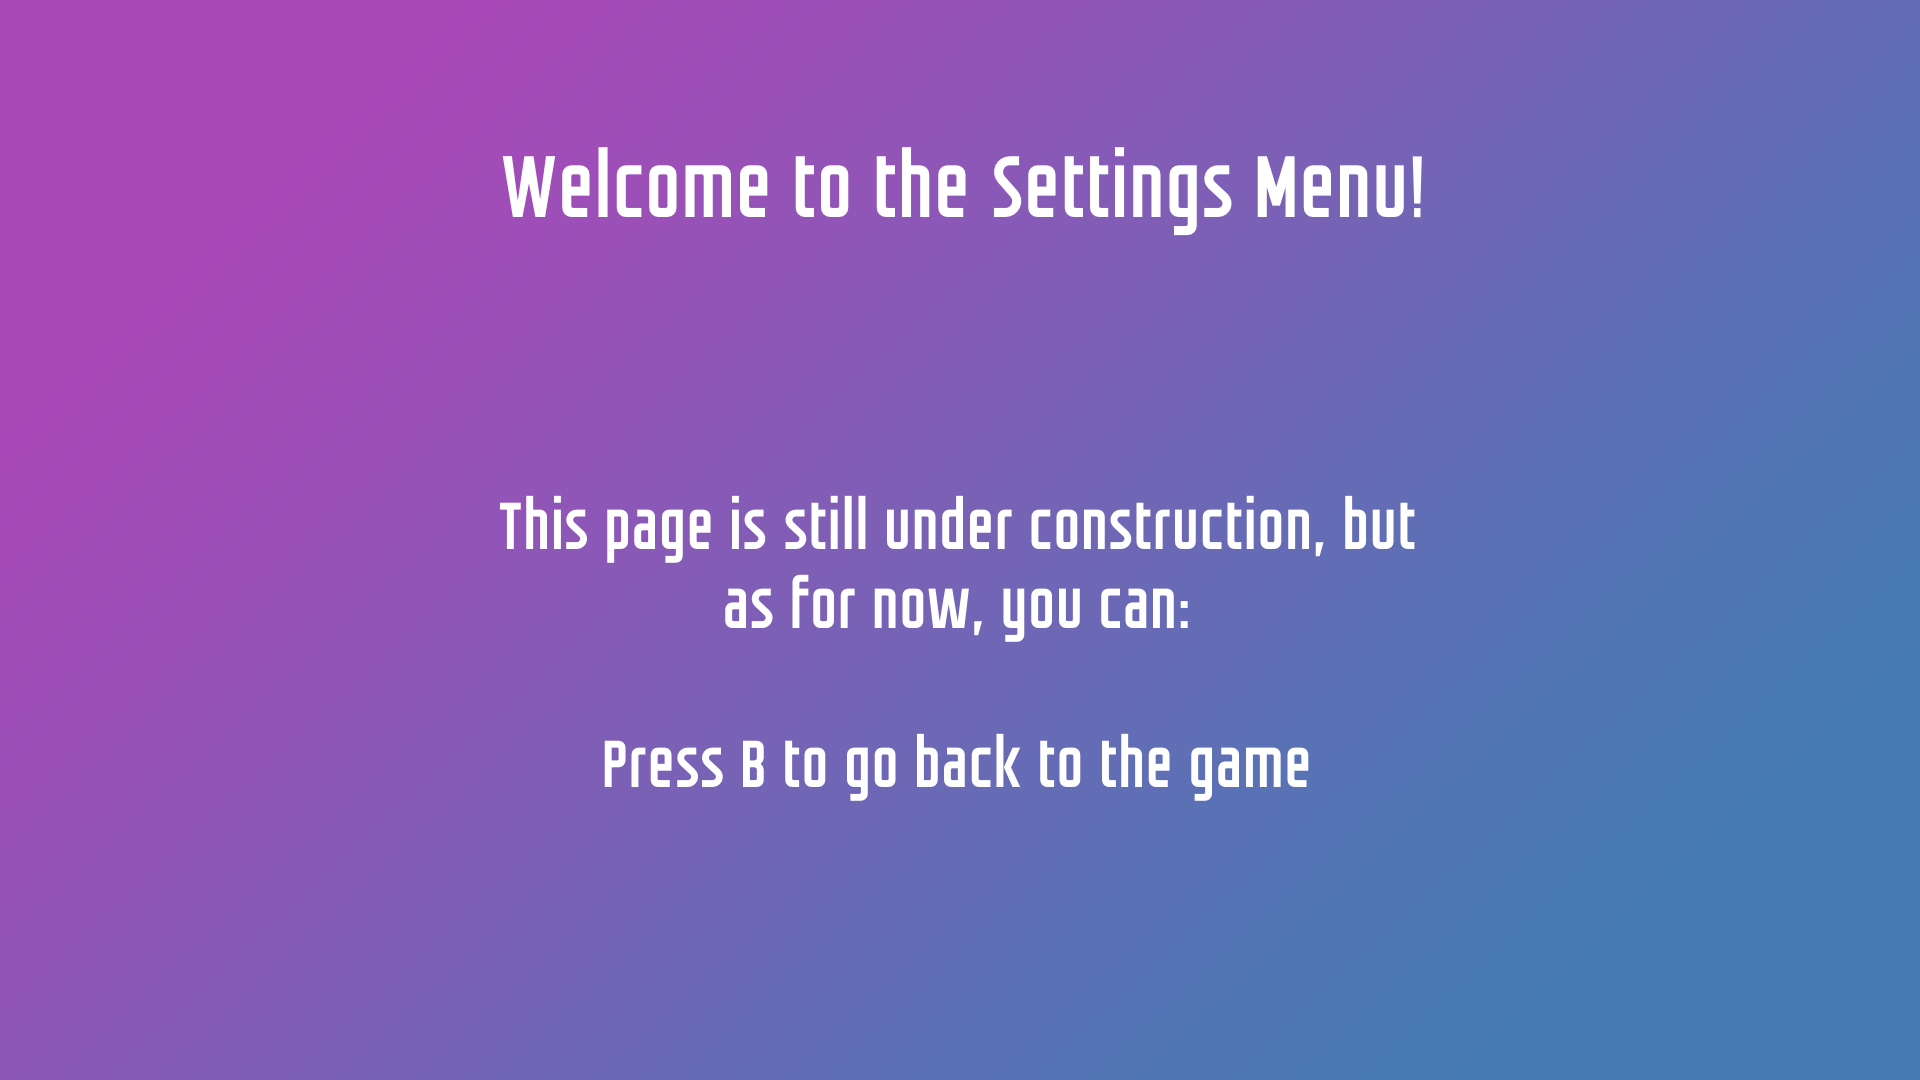
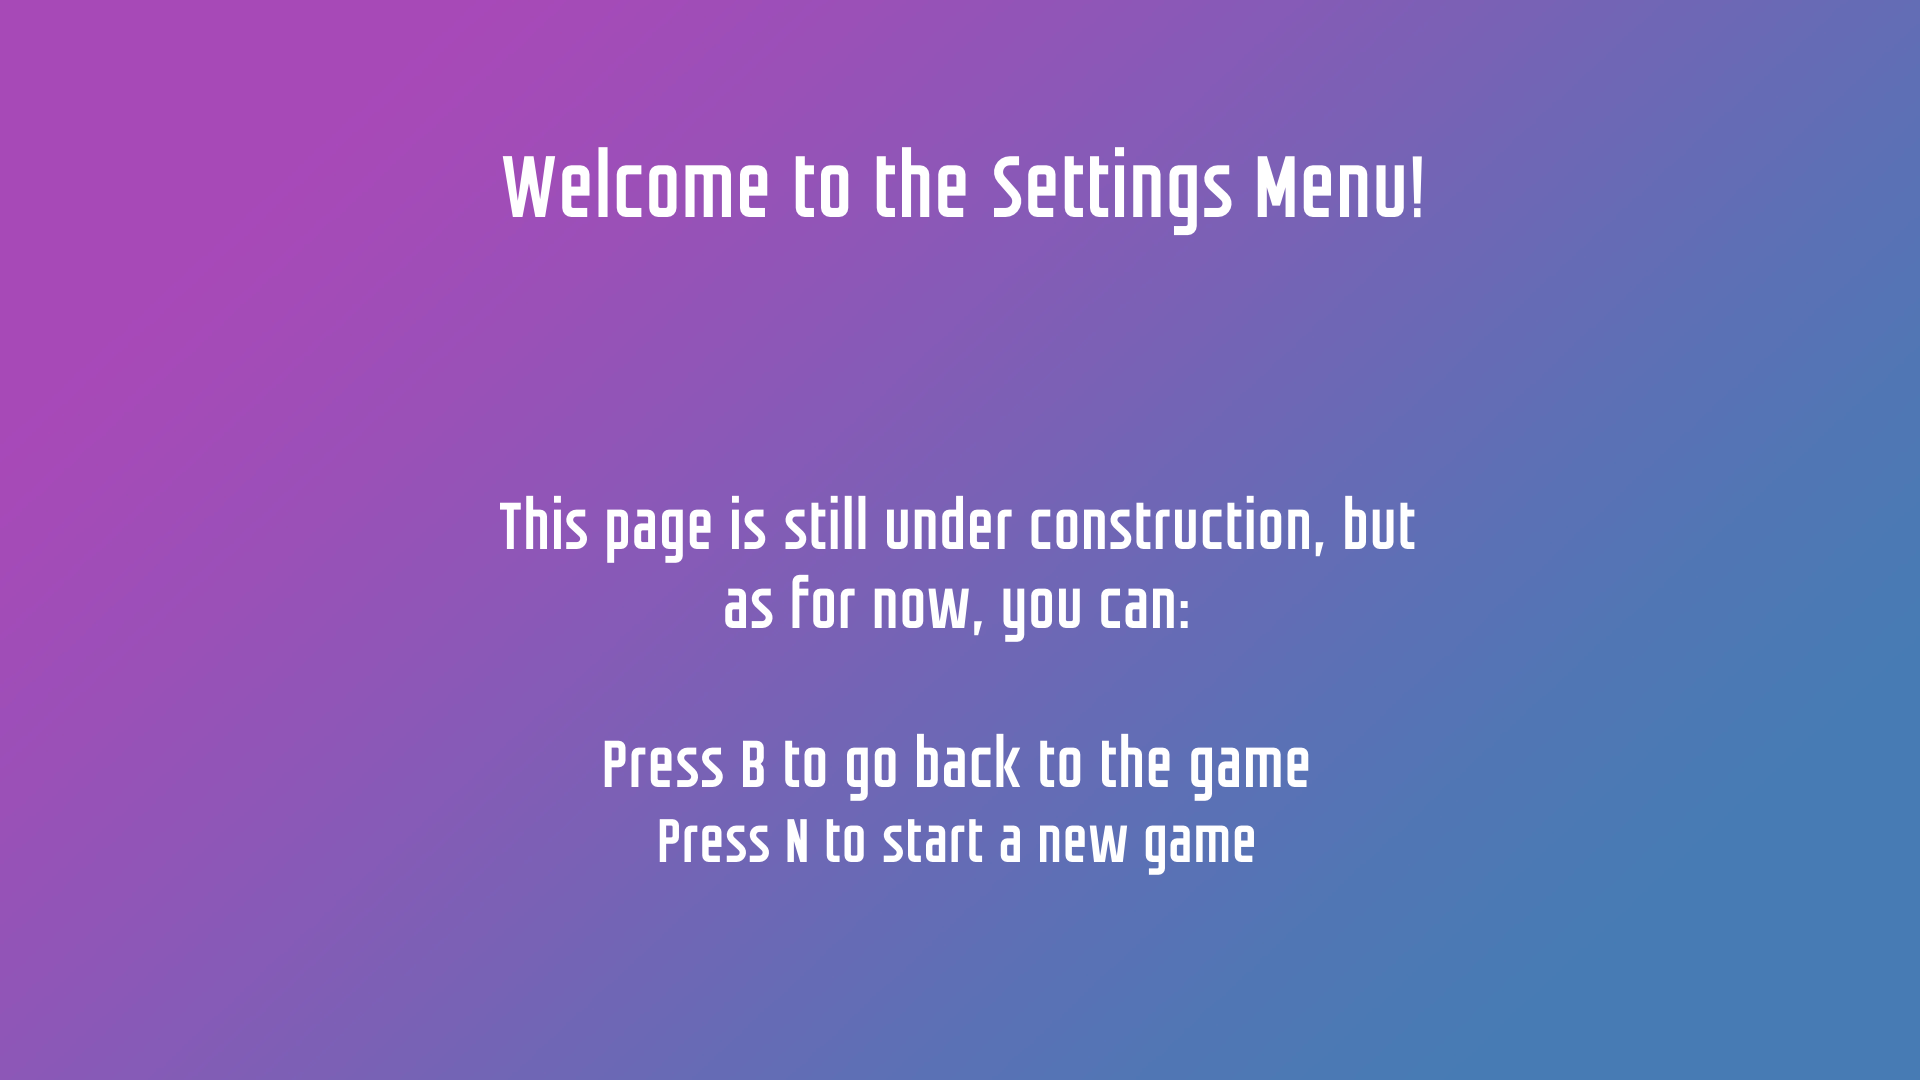
Can now start a new game from the SettingsScreen

Changed region(s): [[0.3438, 0.7639, 0.6562, 0.825]]

diff --git a/src/main/java/inf112/roborally/game/screens/SettingsScreen.java b/src/main/java/inf112/roborally/game/screens/SettingsScreen.java
@@ -53,18 +53,16 @@ public class SettingsScreen implements Screen {
     }
 
     private void handleInput() {
-        if(Gdx.input.isKeyJustPressed(Input.Keys.M)) {
-            System.out.println("KEY M IS PRESSED");
-        }
-        else if(Gdx.input.isKeyJustPressed(Input.Keys.G)) {
-            System.out.println("KEY G IS PRESSED, EXITING");
-            Gdx.app.exit();
-        }
-        else if(Gdx.input.isKeyJustPressed(Input.Keys.B)) {
+       if(Gdx.input.isKeyJustPressed(Input.Keys.B) || Gdx.input.isKeyJustPressed(Input.Keys.ESCAPE)) {
             System.out.println("Key B is pressed, going back to the GameScreen");
             roboRallyGame.setScreen(roboRallyGame.gameScreen);
             dispose();
         }
+        else if(Gdx.input.isKeyJustPressed(Input.Keys.N)) {
+            dispose();
+            roboRallyGame.newGame();
+        }
+
     }
 
     @Override

diff --git a/src/main/java/inf112/roborally/game/RoboRallyGame.java b/src/main/java/inf112/roborally/game/RoboRallyGame.java
@@ -65,6 +65,11 @@ public class RoboRallyGame extends Game {
         }
     }
 
+    public void newGame() {
+        dispose();
+        create();
+    }
+
     @Override
     public void dispose() {
         batch.dispose();
